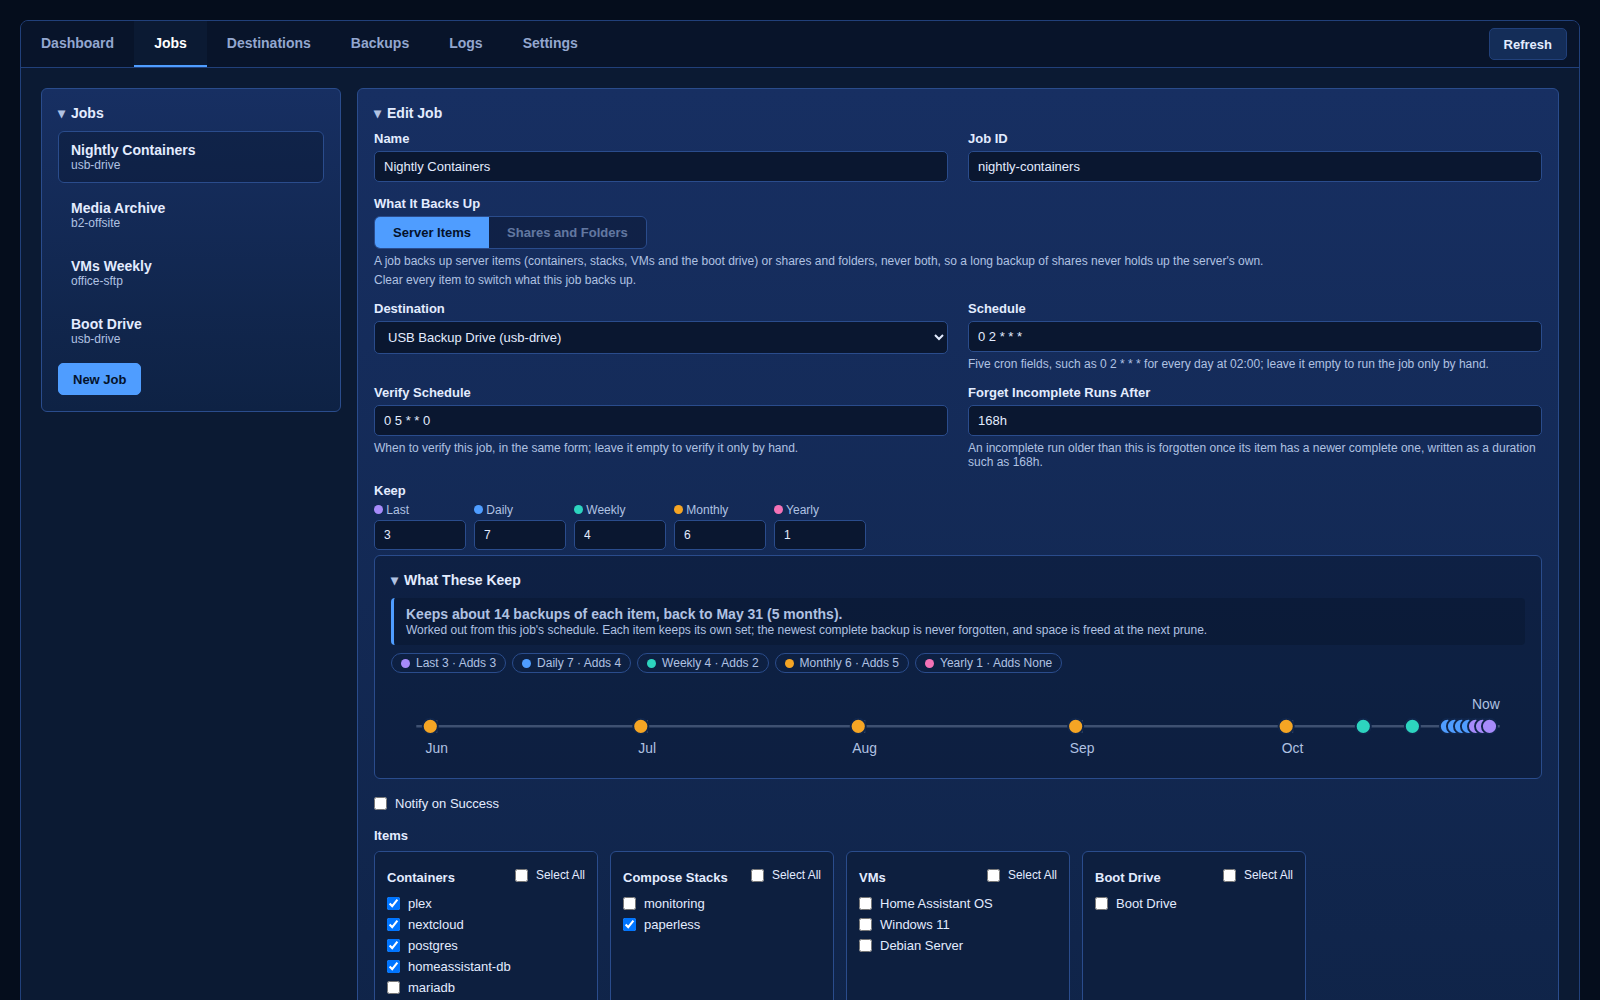
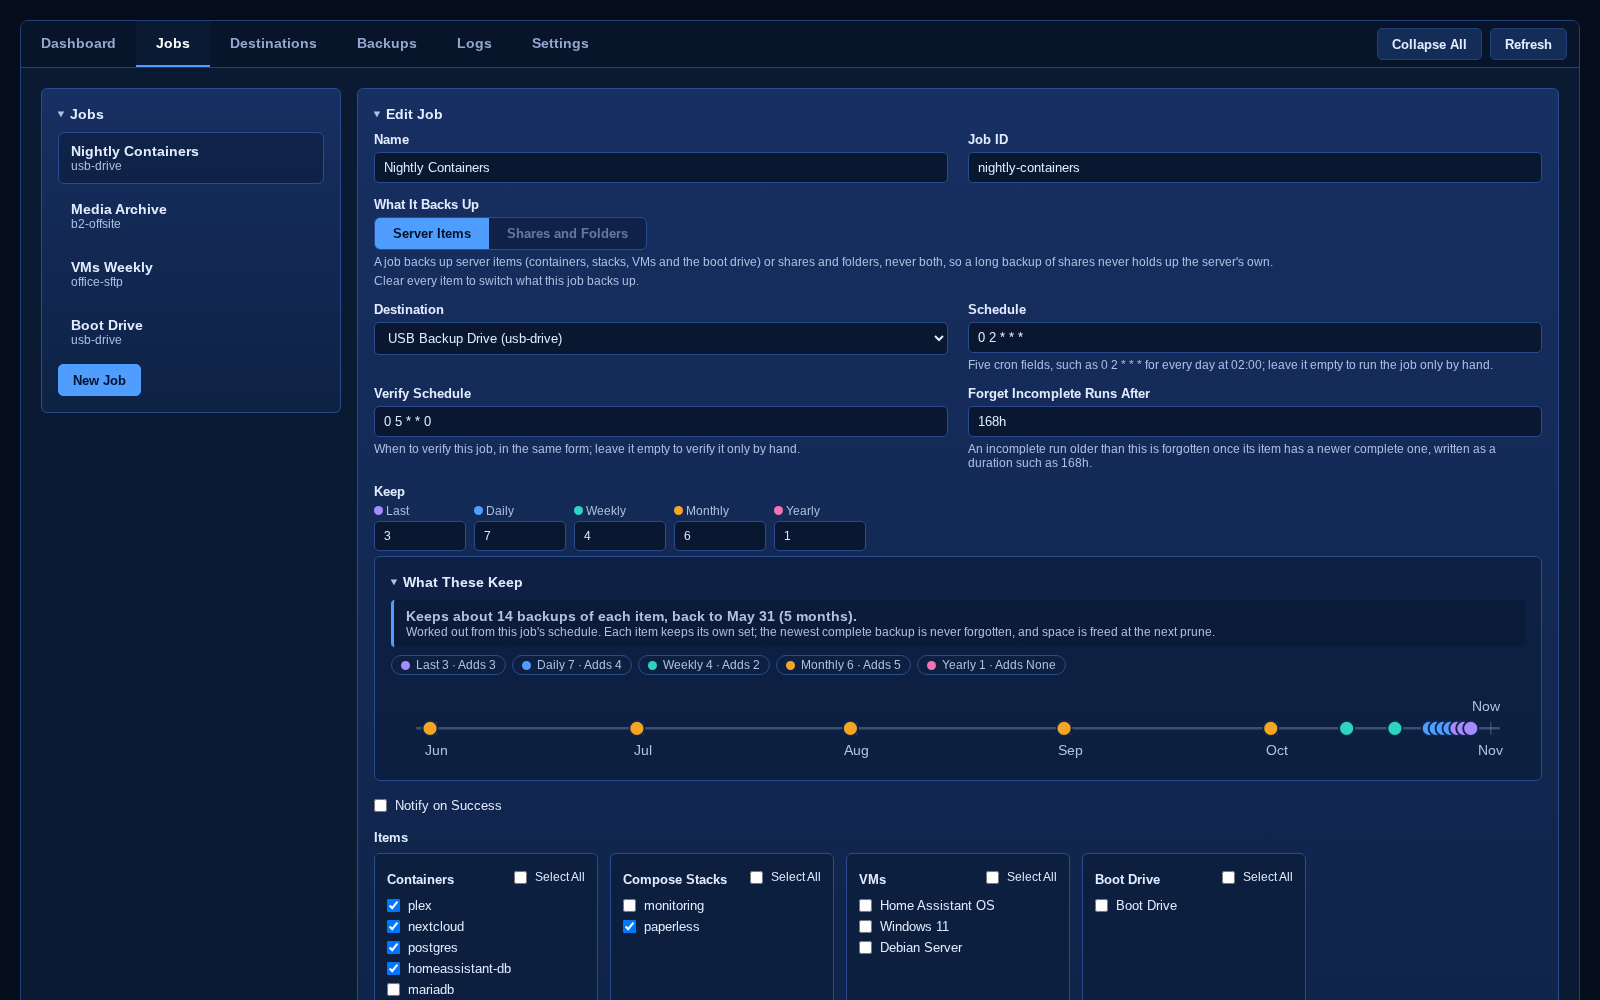
docs: 2026.11.02a: Collapse All, arranging cards saved on the server, a page that fits a phone, and fresh screenshots

diff --git a/README.md b/README.md
@@ -242,6 +242,13 @@ flowchart LR
   once restic reports progress, and before that, while restic scans, a block
   sweeps across it rather than a bar stuck at 0%. A slow cloud listing never
   looks stuck.
+- **Fold and arrange the page your way.** Collapse All in the tab bar folds
+  every card on a tab at once, and Expand All opens them again. On the
+  Dashboard and Settings, Arrange lets you drag cards by a grip or move them
+  with arrows; the order is saved on the server, so it is the same in every
+  browser, and Reset Order puts it back.
+- **Fits a phone.** At phone width the tab bar wraps, so every tab and button
+  stays in reach, and no card runs off the edge of the page.
 - **Tools you can check.** Settings lists the restic and rclone urbk runs,
   each with its SHA-256 against the version it pins, and says Not Verified
   with the reason if either is not the pinned build.
@@ -300,6 +307,11 @@ The screenshots show invented jobs, shares and servers, not a real one.
 |:---:|
 | ![Running Now waiting for a repository lock](docs/images/gui-lock-wait.png) |
 | Running Now while a run waits for a repository another server holds: whose lock it is, and since when |
+
+| Arrange the Dashboard |
+|:---:|
+| ![The Dashboard in arrange mode](docs/images/gui-arrange.png) |
+| A grip and Move Up and Move Down arrows on each card; the order is saved on the server for every browser, and a card that is empty right now keeps its place |
 
 | Delete a Backup | Delete a Job and Its Backups |
 |:---:|:---:|
